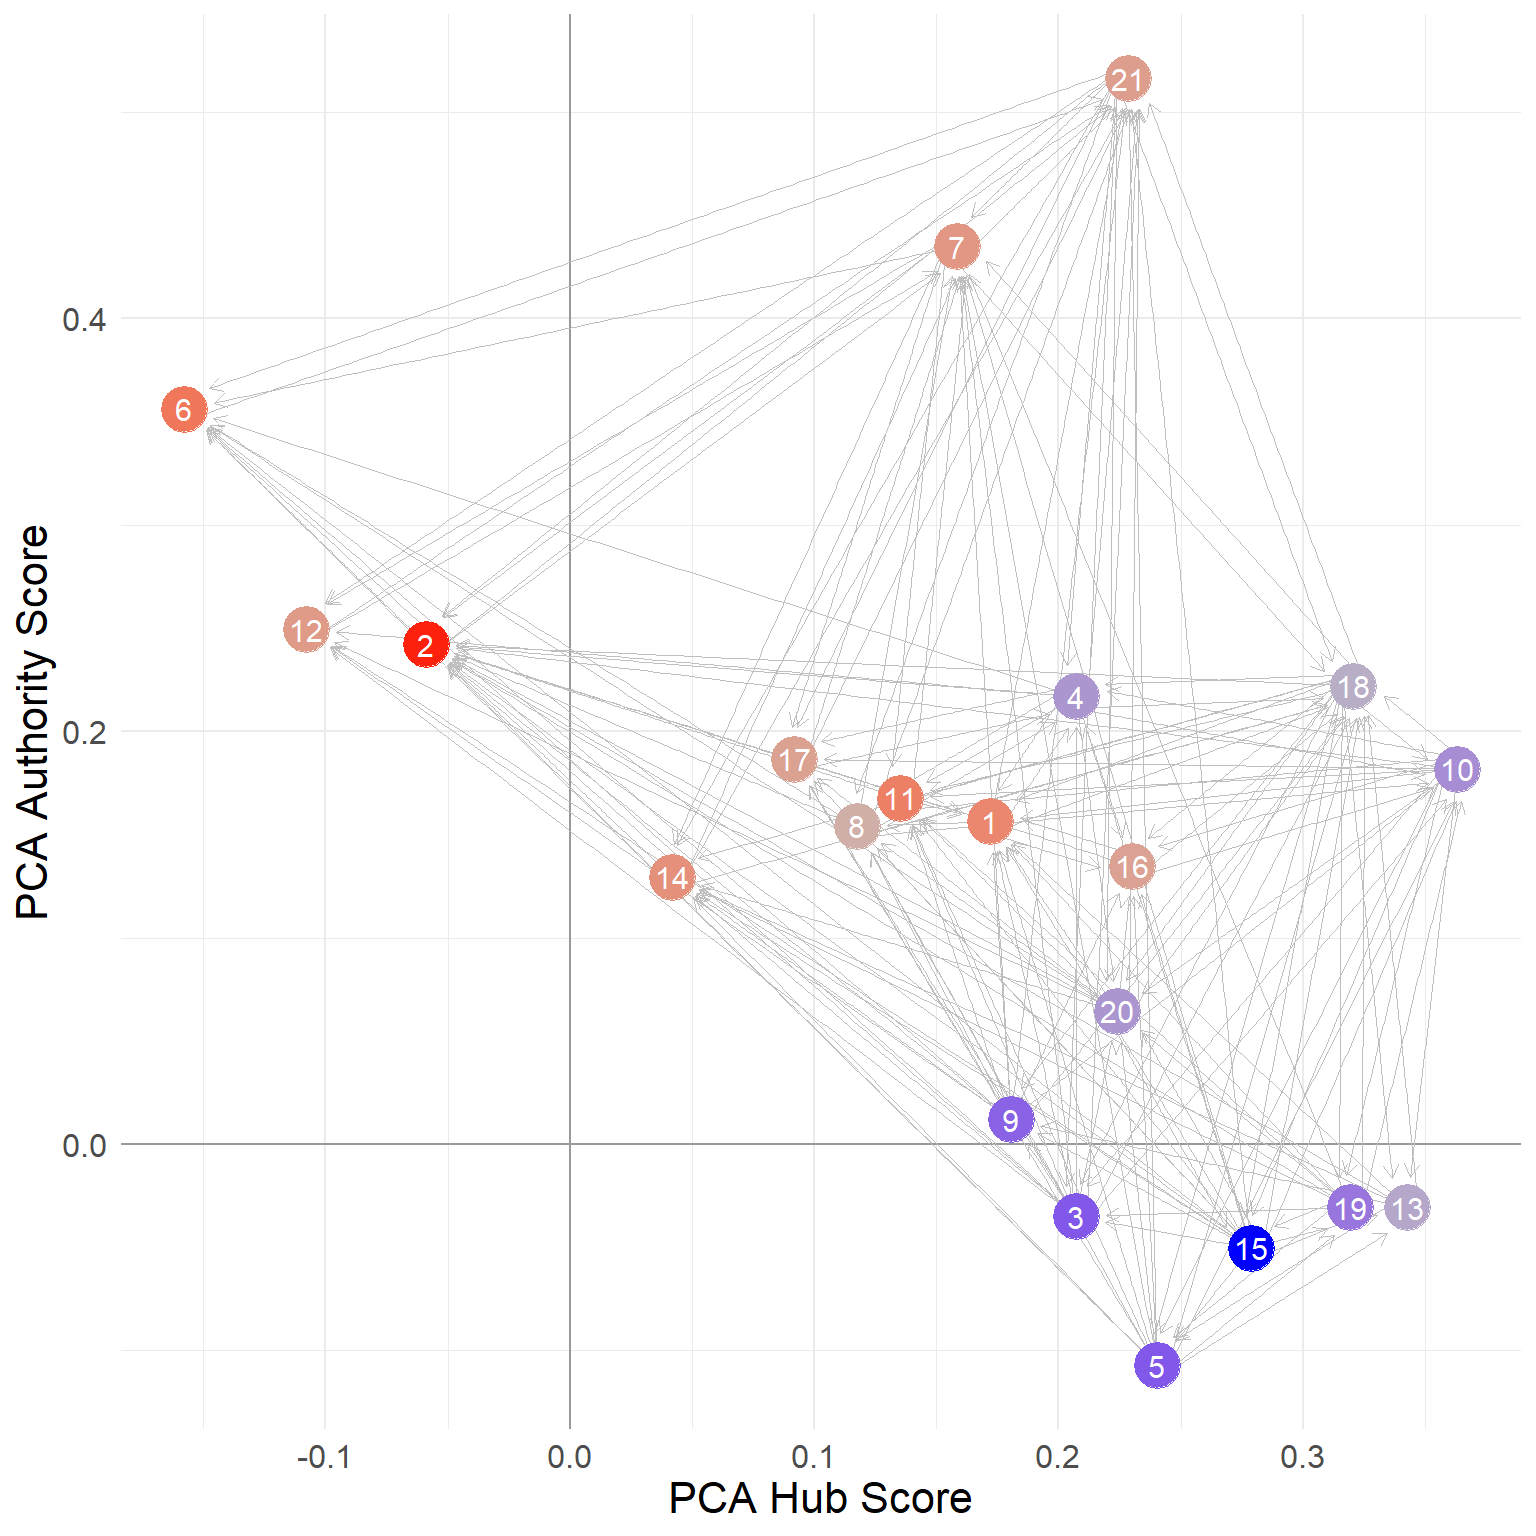
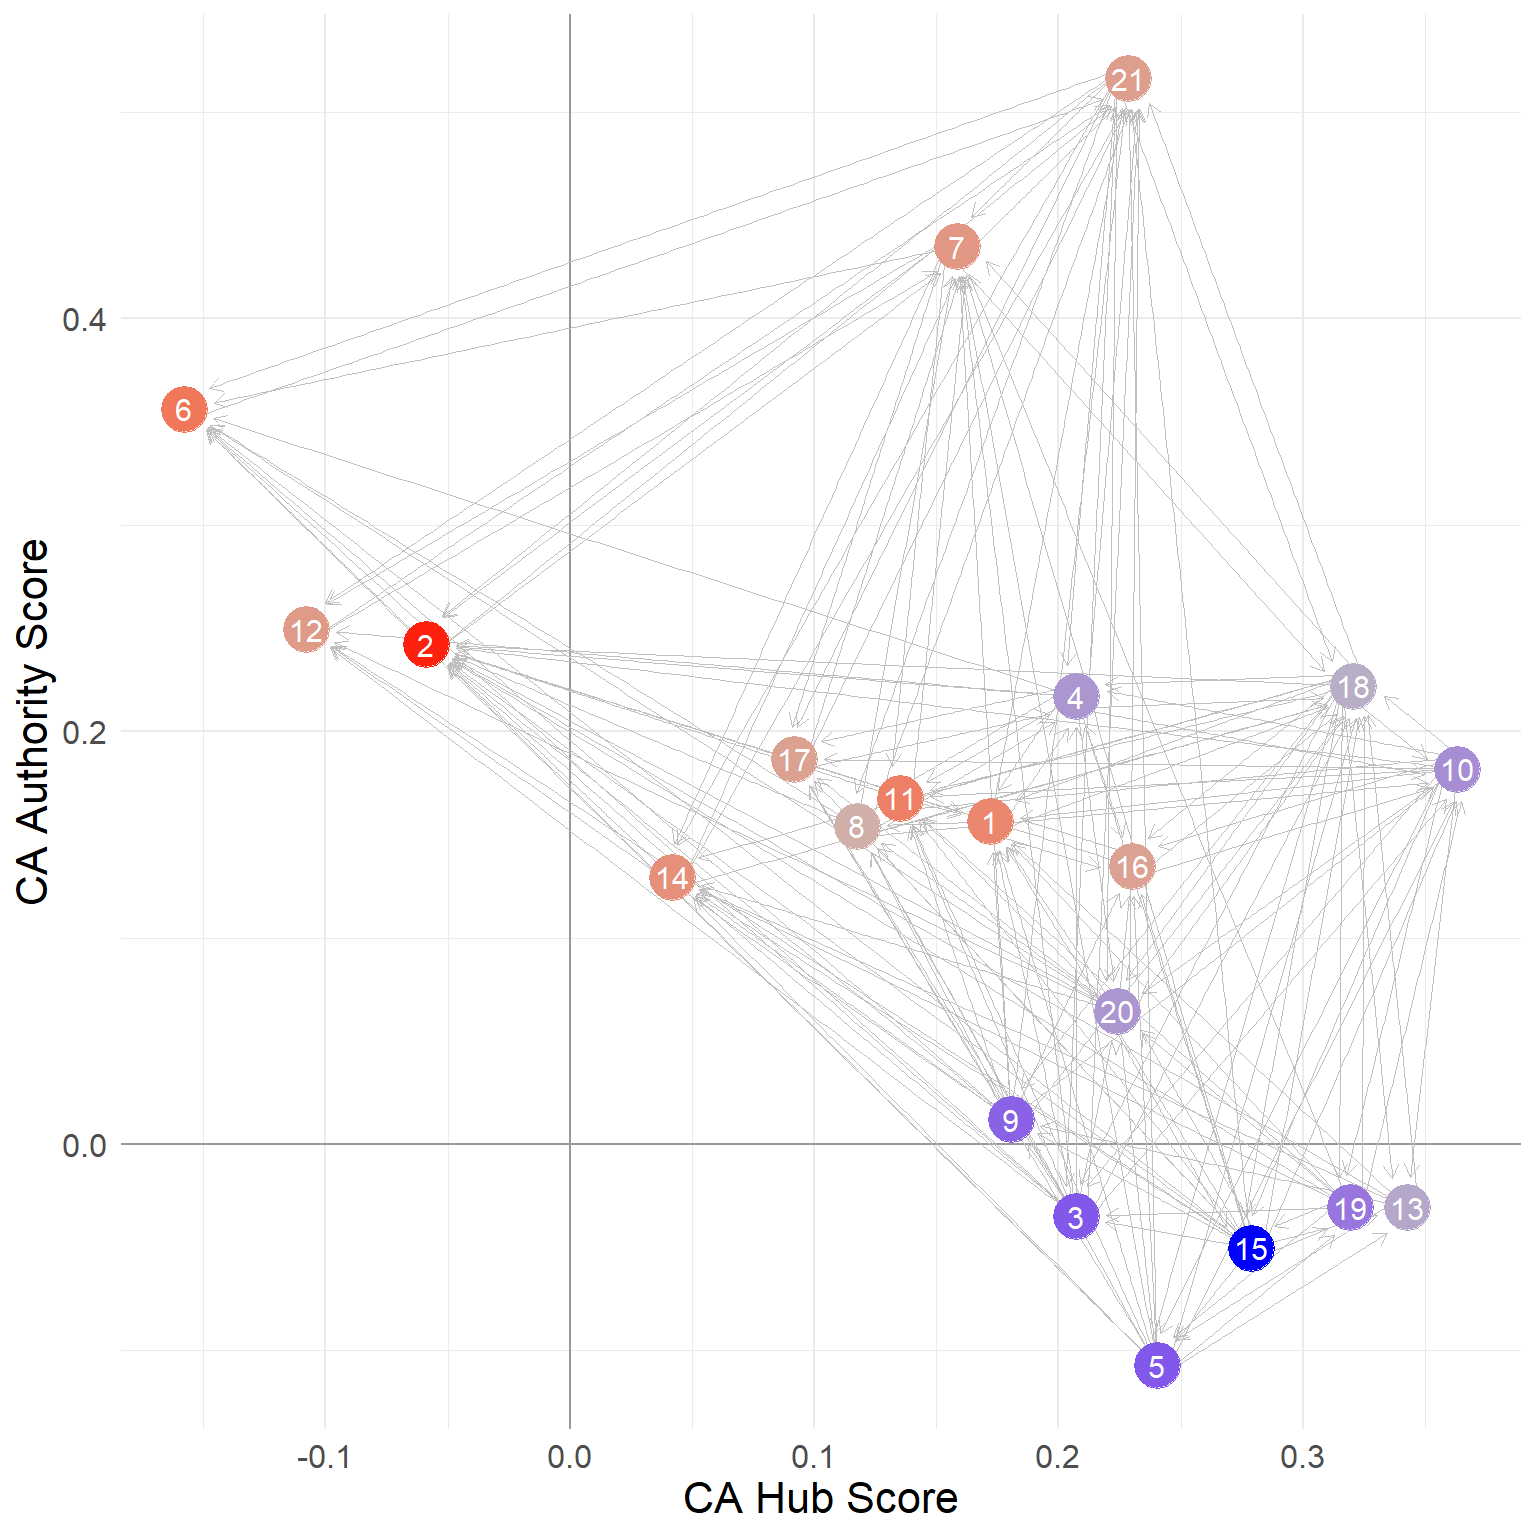
must go

Changed region(s): [[0.0, 0.3438, 0.0312, 0.5938], [0.4375, 0.9688, 0.625, 1.0]]

diff --git a/.posit/assistant/plans/2026-06-12-1632-plan.md b/.posit/assistant/plans/2026-06-12-1632-plan.md
@@ -1,55 +1,46 @@
-# Plan: Improve Text Clarity, Grammatical Accuracy, and Plot Label Bug Fixes in prest-hits.qmd
+# Plan: Correct Equations, Text Typos, and Code Terminology in prest-ml.qmd
 
-This plan details findings from an in-depth audit of the prose, mathematical explanations, and R code within `prest-hits.qmd`. 
-
-While the sociological and network concepts are exceptionally well explained, we have identified several small grammatical typos, mathematical index inconsistencies, and a notable plotting label swap bug in the code.
+This plan outlines the proposed improvements to mathematical formulas, text clarity, and technical terminology in the multilayer networks tutorial `prest-ml.qmd`.
 
 ---
 
-## 1. Text Typos & Grammatical Corrections
+## 1. Correct Mathematically Impossible Inequality
 
-We will correct several minor grammar/spelling issues:
-*   **Line 118:** `"off-diagonals cells"` -> `"off-diagonal cells"`
-*   **Line 145:** `"If these nodes where papers"` -> `"If these nodes were papers"`
-*   **Line 147:** `"is is called"` -> `"is called"` (duplicate word)
-*   **Line 255:** `"Each of these matrices are row stochastic"` -> `"Each of these matrices is row stochastic"` (subject-verb agreement)
-*   **Line 290:** `"in the this case"` -> `"in this case"`
-*   **Line 351:** `"vectors in questions"` -> `"vectors in question"`
-*   **Line 378:** `"post-multyplying"` -> `"post-multiplying"`
-*   **Line 499:** `"inline 4"` -> `"in line 4"`
+*   **File:** `prest-ml.qmd`
+*   **Location:** Line 17
+*   **Issue:** The text states: `"finally, \alpha is a tunable parameter ($0 \geq \alpha \leq \infty$) specifying how much..."`
+    *   This is mathematically impossible (a value cannot be both $\le 0$ and $\le \infty$).
+*   **Proposed Fix:** Correct the inequality constraint to be standard non-negative bounds: `($0 \le \alpha \le \infty$)`.
 
 ---
 
-## 2. Mathematical Explanation & Index Consistency
+## 2. Fix Broken Kronecker Equation Cross-Reference
 
-Following our previous equation corrections, we need to bring the accompanying prose into perfect alignment:
-*   **Line 21:** `"sum over i; the indegree"` -> `"sum over j; the indegree"`. (We updated the equation to sum over the index $j$ to match standard convention, so the text description should match).
-*   **Line 218:** `"Each non-zero entry of is thus equal to"` -> `"Each non-zero entry of $\mathbf{P}_h$ is thus equal to"`. (Restores the missing matrix name).
-*   **Line 228:** `"Like the $\mathbf{P}_{a}$ matrix, the $\mathbf{P}_{a}$ matrix is row-stochastic"` -> `"Like the $\mathbf{P}_{a}$ matrix, the $\mathbf{P}_{h}$ matrix is row-stochastic"`. (Corrects the duplicate matrix name).
-*   **Line 527:** `"nodes with positive scores (hub score larger than their authority scores) appear in blue"` -> `"nodes where the hub score is larger than the authority score appear in blue, and nodes where the authority score is larger than the hub score appear in red."`
-    *   *Why:* The difference is defined in code as `c <- salsa.a - salsa.h`. Therefore, if `salsa.h > salsa.a` (hub > authority), `c` is actually *negative* (which maps to blue). The original text calling this "positive scores" is mathematically contradictory.
+*   **File:** `prest-ml.qmd`
+*   **Location:** Line 19
+*   **Issue:** The sentence is missing its target equation reference: `"The \otimes symbol in refers to the Kronecker product..."`
+*   **Proposed Fix:** Add the correct target reference: `"The \otimes symbol in @eq-super refers to the Kronecker product..."`.
 
 ---
 
-## 3. Fixing the Plot Labeling Swap Bug (R Code)
+## 3. Align Terminology with Dataset Definitions
 
-There is an accuracy bug in the code chunk generating the comparison plots (`#| label: fig-ca`):
-*   The first plot (lines 540-569), which uses the CA coordinates `h3, a3`, is labeled:
-    `p <- p + labs(x = "PCA Hub Score", y = "PCA Authority Score")`
-*   The second plot (lines 570-596), which uses the PCA coordinates `h2, a2`, is labeled:
-    `p <- p + labs(x = "CA Hub Score", y = "CA Authority Score")`
-*   **Proposed Fix:** Swap these labels so the CA coordinates plot correctly displays the `"CA Hub Score"` and `"CA Authority Score"` labels, and the PCA coordinates plot correctly displays the `"PCA Hub Score"` and `"PCA Authority Score"` labels.
+*   **File:** `prest-ml.qmd`
+*   **Location:** Line 135
+*   **Issue:** The text refers to the third layer as the `"orders-to-layer"`, whereas everywhere else in the document it is defined as the `"reports-to layer"` (and coded as `"r"`).
+*   **Proposed Fix:** Update `"orders-to-layer"` to `"reports-to layer"` for absolute consistency.
 
 ---
 
-## 4. Run-on Sentence Refinement for Better Readability
+## 4. Restore Missing Node Identifier
 
-*   **Line 43:** Convert the long run-on explanation into structured, readable sentences.
-    *   *Current:* `"The while loop in lines 5-13 then updates the hub scores (to be the sum of the authority scores of each out-neighbor) in line 7 normalize them in line 8 and update the new authority scores..."`
-    *   *Proposed:* `"The while loop in lines 5-13 then updates the hub scores (to be the sum of the authority scores of each out-neighbor) in line 7, normalizes them in line 8, and updates the new authority scores..."`
+*   **File:** `prest-ml.qmd`
+*   **Location:** Line 162
+*   **Issue:** There is a missing node number in the comparative results statement: `"while node remains the highest-status node, but only in the advice layer."`
+*   **Proposed Fix:** Add the missing node number: `"while node 2 remains the highest-status node, but only in the advice layer."`
 
 ---
 
 ## Next Steps
 
-We will proceed to implement these edits systematically across `prest-hits.qmd`. This will make the file completely mathematically consistent, grammatically polished, and mathematically accurate.
+With your approval, we will exit Plan mode and implement these edits systematically in `prest-ml.qmd`.
